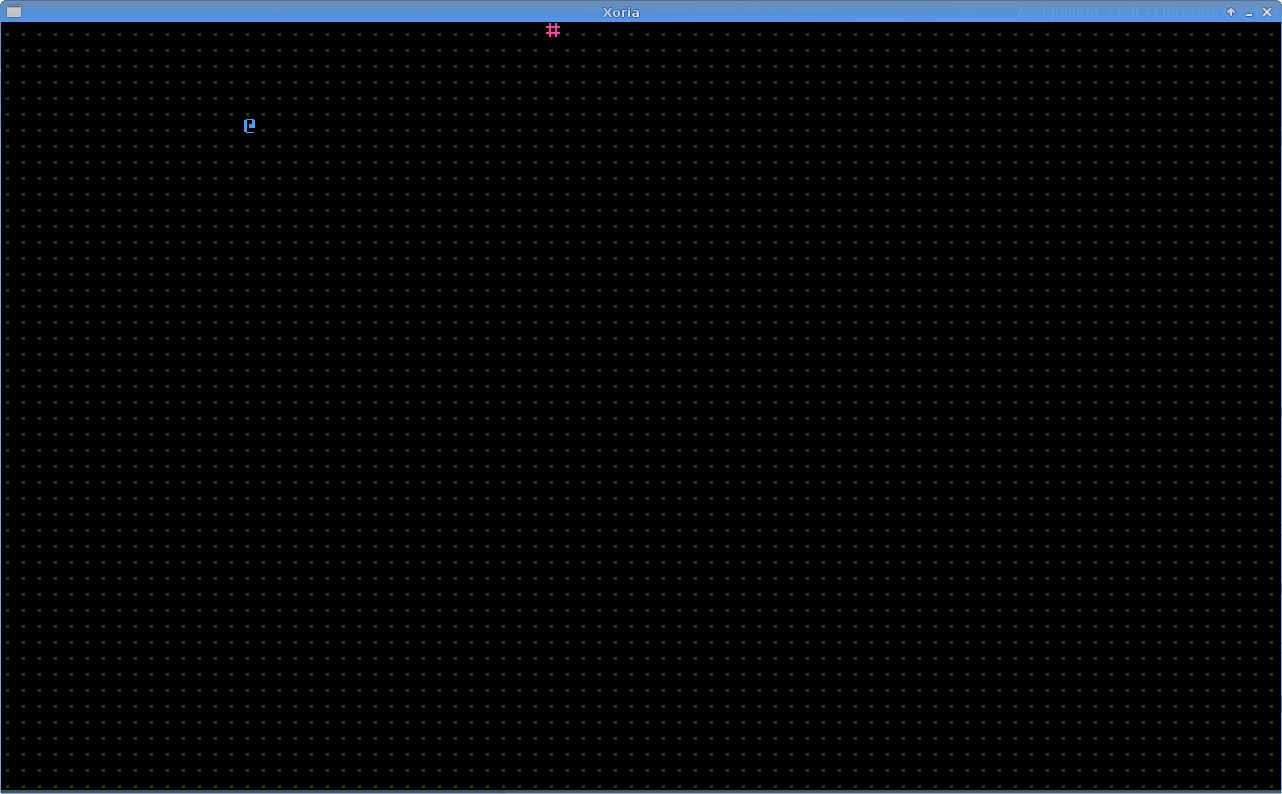
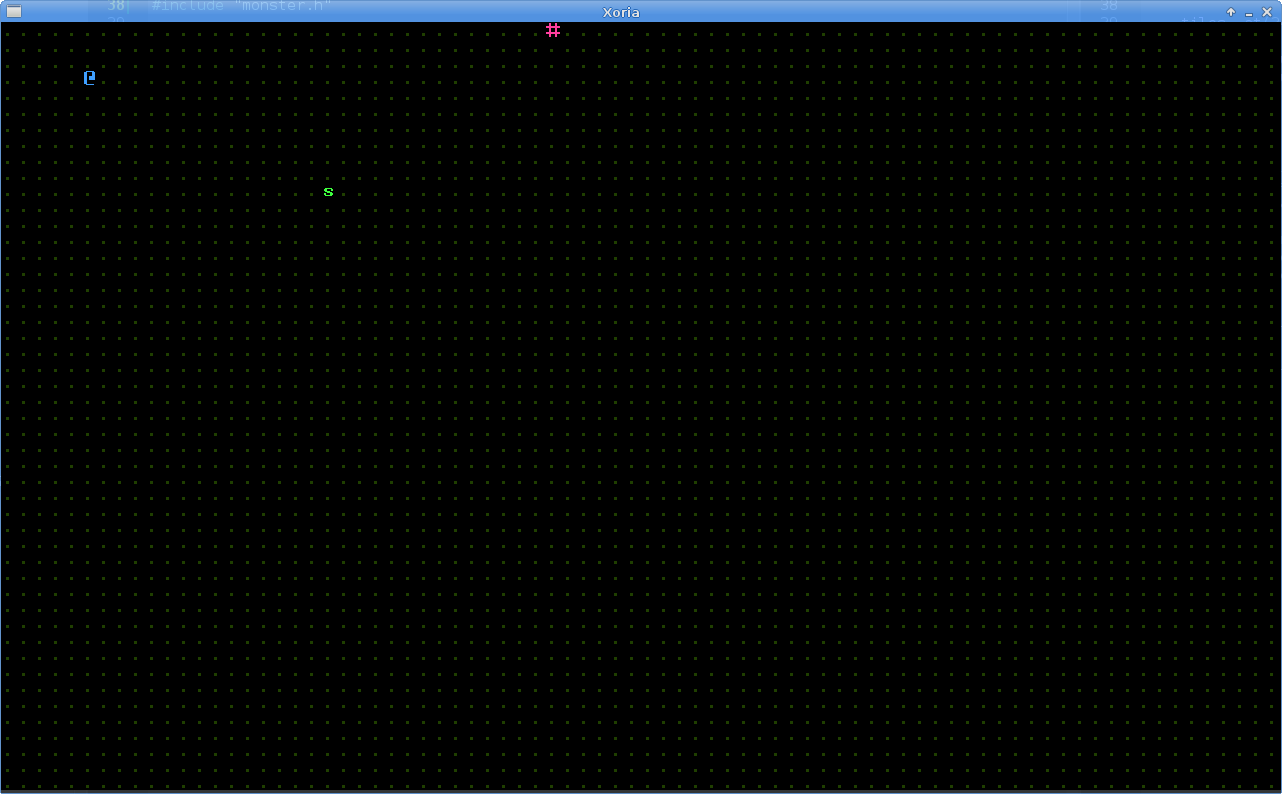
Add Monster class and MonsterSet namespace

Changed region(s): [[0.0, 0.1814, 1.0, 1.0], [0.0, 0.0, 1.0, 0.0302]]

diff --git a/include/monster.h b/include/monster.h
@@ -1,0 +1,72 @@
+/*
+Project: Xoria
+File: monster.h
+Author: Joel McFadden
+Created: July 21, 2015
+Last Modified: July 21, 2015
+
+Description:
+    A simple sci-fi roguelike.
+
+Copyright (C) 2015 Joel McFadden
+
+Usage Agreement:
+    This file is part of Xoria.
+
+    Xoria is free software: you can redistribute it and/or modify
+    it under the terms of the GNU General Public License as published by
+    the Free Software Foundation, either version 3 of the License, or
+    (at your option) any later version.
+
+    Xoria is distributed in the hope that it will be useful,
+    but WITHOUT ANY WARRANTY; without even the implied warranty of
+    MERCHANTABILITY or FITNESS FOR A PARTICULAR PURPOSE.  See the
+    GNU General Public License for more details.
+
+    You should have received a copy of the GNU General Public License
+    along with Xoria.  If not, see <http://www.gnu.org/licenses/>.
+*/
+
+#ifndef MONSTER_H
+#define MONSTER_H
+
+#include "entity.h"
+
+/// Creature inhabiting game world
+/// Entity not controlled by user.
+class Monster : public Entity {
+public:
+    Monster(const std::string& name,
+            const std::string& description,
+            int glyph,
+            const TCODColor& color,
+            int initialHealth,
+            int maxHealth,
+            int damage,
+            int armour,
+            int accuracy,
+            bool friendly)
+        : Entity{Coord(-1, -1),
+                 name,
+                 description,
+                 glyph,
+                 color,
+                 initialHealth,
+                 maxHealth,
+                 damage,
+                 armour,
+                 accuracy}, friendly_{friendly}
+    { }
+
+    Monster(const Coord& pos, const Monster& other);
+
+    bool isFriendly() const;
+    /* returns true if creature is non-hostile */
+
+    void move(int dx, int dy) override;
+
+private:
+    bool friendly_;
+};
+
+#endif // MONSTER_H

diff --git a/src/monster.cpp b/src/monster.cpp
@@ -1,8 +1,8 @@
 /*
 Project: Xoria
-File: map.h
+File: monster.cpp
 Author: Joel McFadden
-Created: June 19, 2015
+Created: July 21, 2015
 Last Modified: July 21, 2015
 
 Description:
@@ -27,35 +27,28 @@ Usage Agreement:
     along with Xoria.  If not, see <http://www.gnu.org/licenses/>.
 */
 
-#ifndef MAP_H
-#define MAP_H
-
-#include <vector>
-#include <list>
-#include <memory>
-#include "constants.h"
-#include "player.h"
 #include "monster.h"
 
-/// Setting of the game.
-/// Environment where creatures, tiles, and items interact.
-class Map {
-public:
-    Map(int width = Settings::consoleWidth, int height = Settings::consoleHeight);
+Monster::Monster(const Coord &pos, const Monster& m)
+    : Entity{pos,
+             m.name_,
+             m.description_,
+             m.glyph_,
+             m.fore_,
+             m.health_,
+             m.maxHealth_,
+             m.damage_,
+             m.armour_,
+             m.accuracy_}, friendly_{m.friendly_}
+{
+}
 
-    void render(TCODConsole* activeConsole) const;
-    /* draw map objects on active console */
+bool Monster::isFriendly() const
+{
+    return friendly_;
+}
 
-    using EntityList = std::list<std::unique_ptr<Entity>>;
-    // list of entities on the map
-
-    Entity& getPlayer();
-
-private:
-    int width_;
-    int height_;
-    std::vector<const Tile*> tiles_;
-    EntityList entities_;
-};
-
-#endif // MAP_H
+void Monster::move(int dx, int dy)
+{
+    pos_.offset(dx, dy);
+}

diff --git a/include/constants.h b/include/constants.h
@@ -3,7 +3,7 @@ Project: Xoria
 File: constants.h
 Author: Joel McFadden
 Created: June 19, 2015
-Last Modified: July 18, 2015
+Last Modified: July 21, 2015
 
 Description:
     A simple sci-fi roguelike.
@@ -31,6 +31,7 @@ Usage Agreement:
 #define CONSTANTS
 
 #include "tile.h"
+#include "monster.h"
 
 namespace Settings {
     const int consoleWidth = 80;
@@ -50,6 +51,10 @@ namespace Default {
 namespace TileSet {
     const Tile grass{"Grass", "green vegetation", '.', TCODColor::darkestChartreuse, TCODColor::black};
     const Tile wall{"Wall", "rock wall", '#', TCODColor::lightPink, TCODColor::black};
+}
+
+namespace MonsterSet {
+    const Monster spaceSlug{"Space Slug", "harmless alien gastropod", 's', TCODColor::lightGreen, 1, 2, 1, 0, 1, true};
 }
 
 #endif // CONSTANTS

diff --git a/include/player.h b/include/player.h
@@ -3,7 +3,7 @@ Project: Xoria
 File: player.h
 Author: Joel McFadden
 Created: July 18, 2015
-Last Modified: July 20, 2015
+Last Modified: July 21, 2015
 
 Description:
     A simple sci-fi roguelike.
@@ -31,6 +31,7 @@ Usage Agreement:
 #define PLAYER_H
 
 #include "entity.h"
+#include "constants.h"
 
 /// Player Character
 /// Entity controlled by user.

diff --git a/include/entity.h b/include/entity.h
@@ -3,7 +3,7 @@ Project: Xoria
 File: entity.h
 Author: Joel McFadden
 Created: July 17, 2015
-Last Modified: July 20, 2015
+Last Modified: July 21, 2015
 
 Description:
     A simple sci-fi roguelike.
@@ -30,7 +30,6 @@ Usage Agreement:
 #ifndef ENTITY_H
 #define ENTITY_H
 
-#include "constants.h"
 #include "mapobject.h"
 #include "coord.h"
 

diff --git a/src/map.cpp b/src/map.cpp
@@ -39,6 +39,7 @@ Map::Map(int width, int height)
     tiles_.at(34) = &TileSet::wall;
 
     entities_.push_front(std::make_unique<Player>(Coord(5, 3)));
+    entities_.push_back(std::make_unique<Monster>(Coord(20, 10), MonsterSet::spaceSlug));
 }
 
 void Map::render(TCODConsole* activeConsole) const
